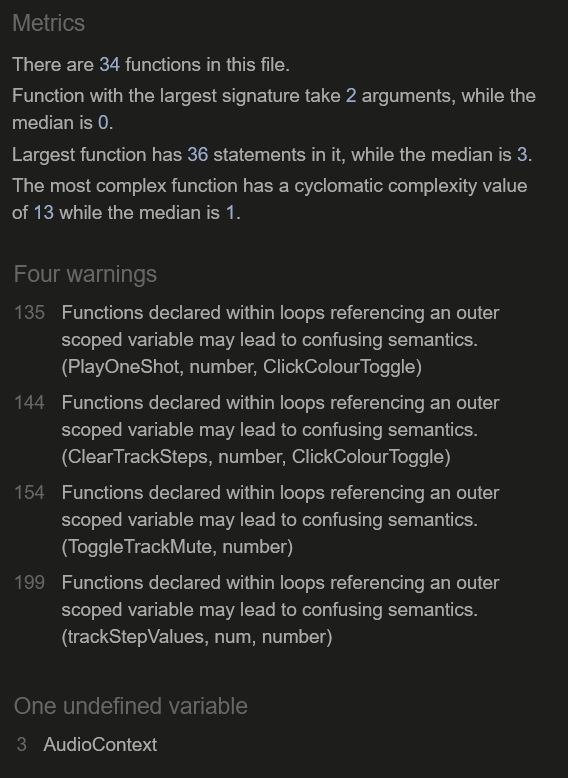
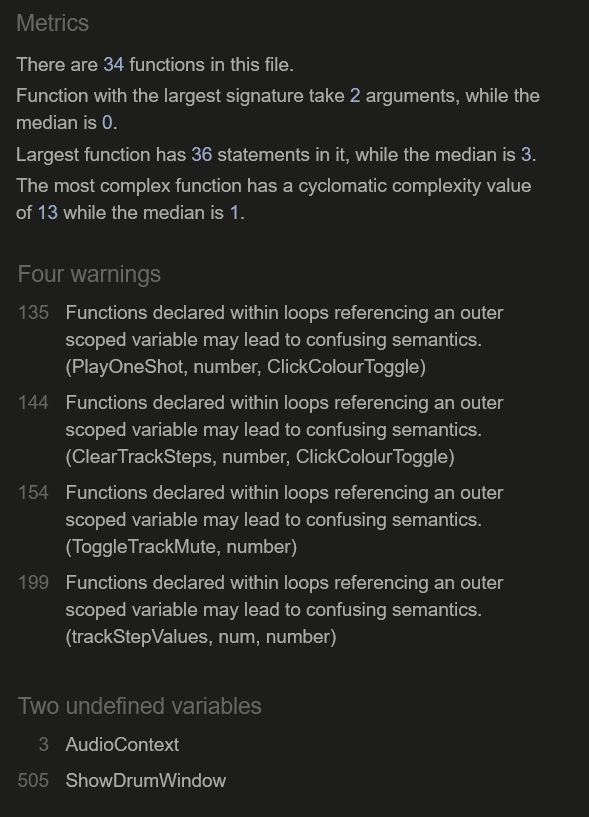
docs: update JS Validation sub-section and images

Changed region(s): [[0.0299, 0.3085, 0.868, 0.9871], [0.0, 0.0, 0.9278, 0.2776]]

diff --git a/README.md b/README.md
@@ -192,7 +192,7 @@ W3C Jigsaw CSS Validation Service was utilised to validate the website's CSS. Wh
 
 JSHint was utilised to validate the website's JS. The three scripts received the following results;
 
-- drums.js received 4 warnings is relation to "Functions declared within loops referencing an outer scoped variable may lead to confusing semantics." The code is functioning correctly, so I have chosen not to make any changes to the 4 sections referenced. There 1 one undefined variable referenced "AudioContext", but this is used for the Web Audio API.
+- drums.js received 4 warnings is relation to "Functions declared within loops referencing an outer scoped variable may lead to confusing semantics." The code is functioning correctly, so I have chosen not to make any changes to the 4 sections referenced. Two undefined variables are referenced; "AudioContext", this is used for the Web Audio API, and "ShowDrumWindow", this is a function in navigation.js which is loaded earlier in index.html.
 <details><summary>drums.js</summary>
 <img src="docs/validation/drums_js_validation.JPG">
 </details>
@@ -202,7 +202,7 @@ JSHint was utilised to validate the website's JS. The three scripts received the
 <img src="docs/validation/navigation_js_validation.JPG">
 </details>
 
-- form.js received 0 warnings. One undefined variable was referenced (emailjs), this is used for EmailJS. One unused variable was referenced (SendLoop), this loop is not called in the script but is called via an onclick event in index.html.
+- form.js received 0 warnings. Two undefined variables were referenced; "ExportLoop", this is a function in drum.js which is loaded earlier in index.html, and "emailjs", this is used for EmailJS. One unused variable was referenced (SendLoop), this loop is not called in the script but is called via an onclick event in index.html.
 <details><summary>forms.js</summary>
 <img src="docs/validation/form_js_validation.JPG">
 </details>
